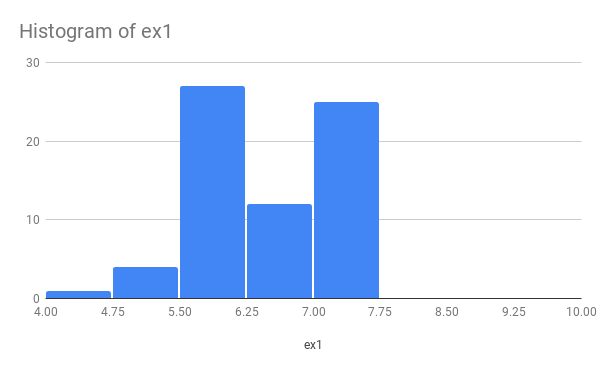
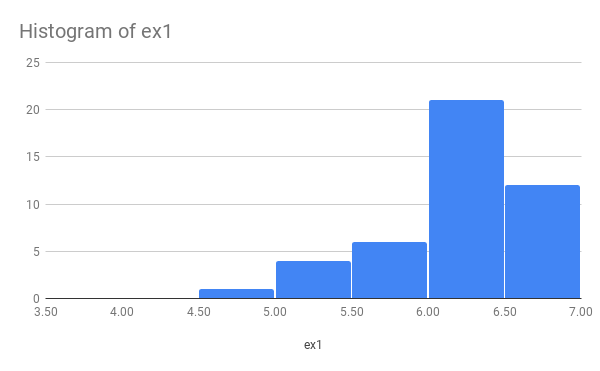
Fixed feedback slide

diff --git a/slides/wk04/3dprinting.html b/slides/wk04/3dprinting.html
@@ -33,10 +33,11 @@ info of consequence on Piazza
 
 Will try to add expected time. 
 
-Calibration is an issue for all of us
+Calibration is an issue for all of us. We need to know about long
+assignments so we can fix the confusing stuff! 
 
-![:img a chart of the mean time to complete ex1 and ex2 and ex3 with standard deviation shown on top of that,30%](img/meanchart.png)|![:img a histogram of ex1 scores,30%](img/ex1.png)|![:img a histogram of ex2 scores,30%](img/ex2.png)|
-
+![:img a chart of the mean time to complete ex1 and ex2 and ex3 with standard deviation shown on top of that,30%](img/meanchart.png)![:img a histogram of ex1 scores,30%](img/ex1.png)![:img a histogram of ex2 scores,30%](img/ex2.png)|
+.footnote[ex1 shows only our grading, not peer grading yet]
 
 ???
 Note: this is somewhat higher than we expected
